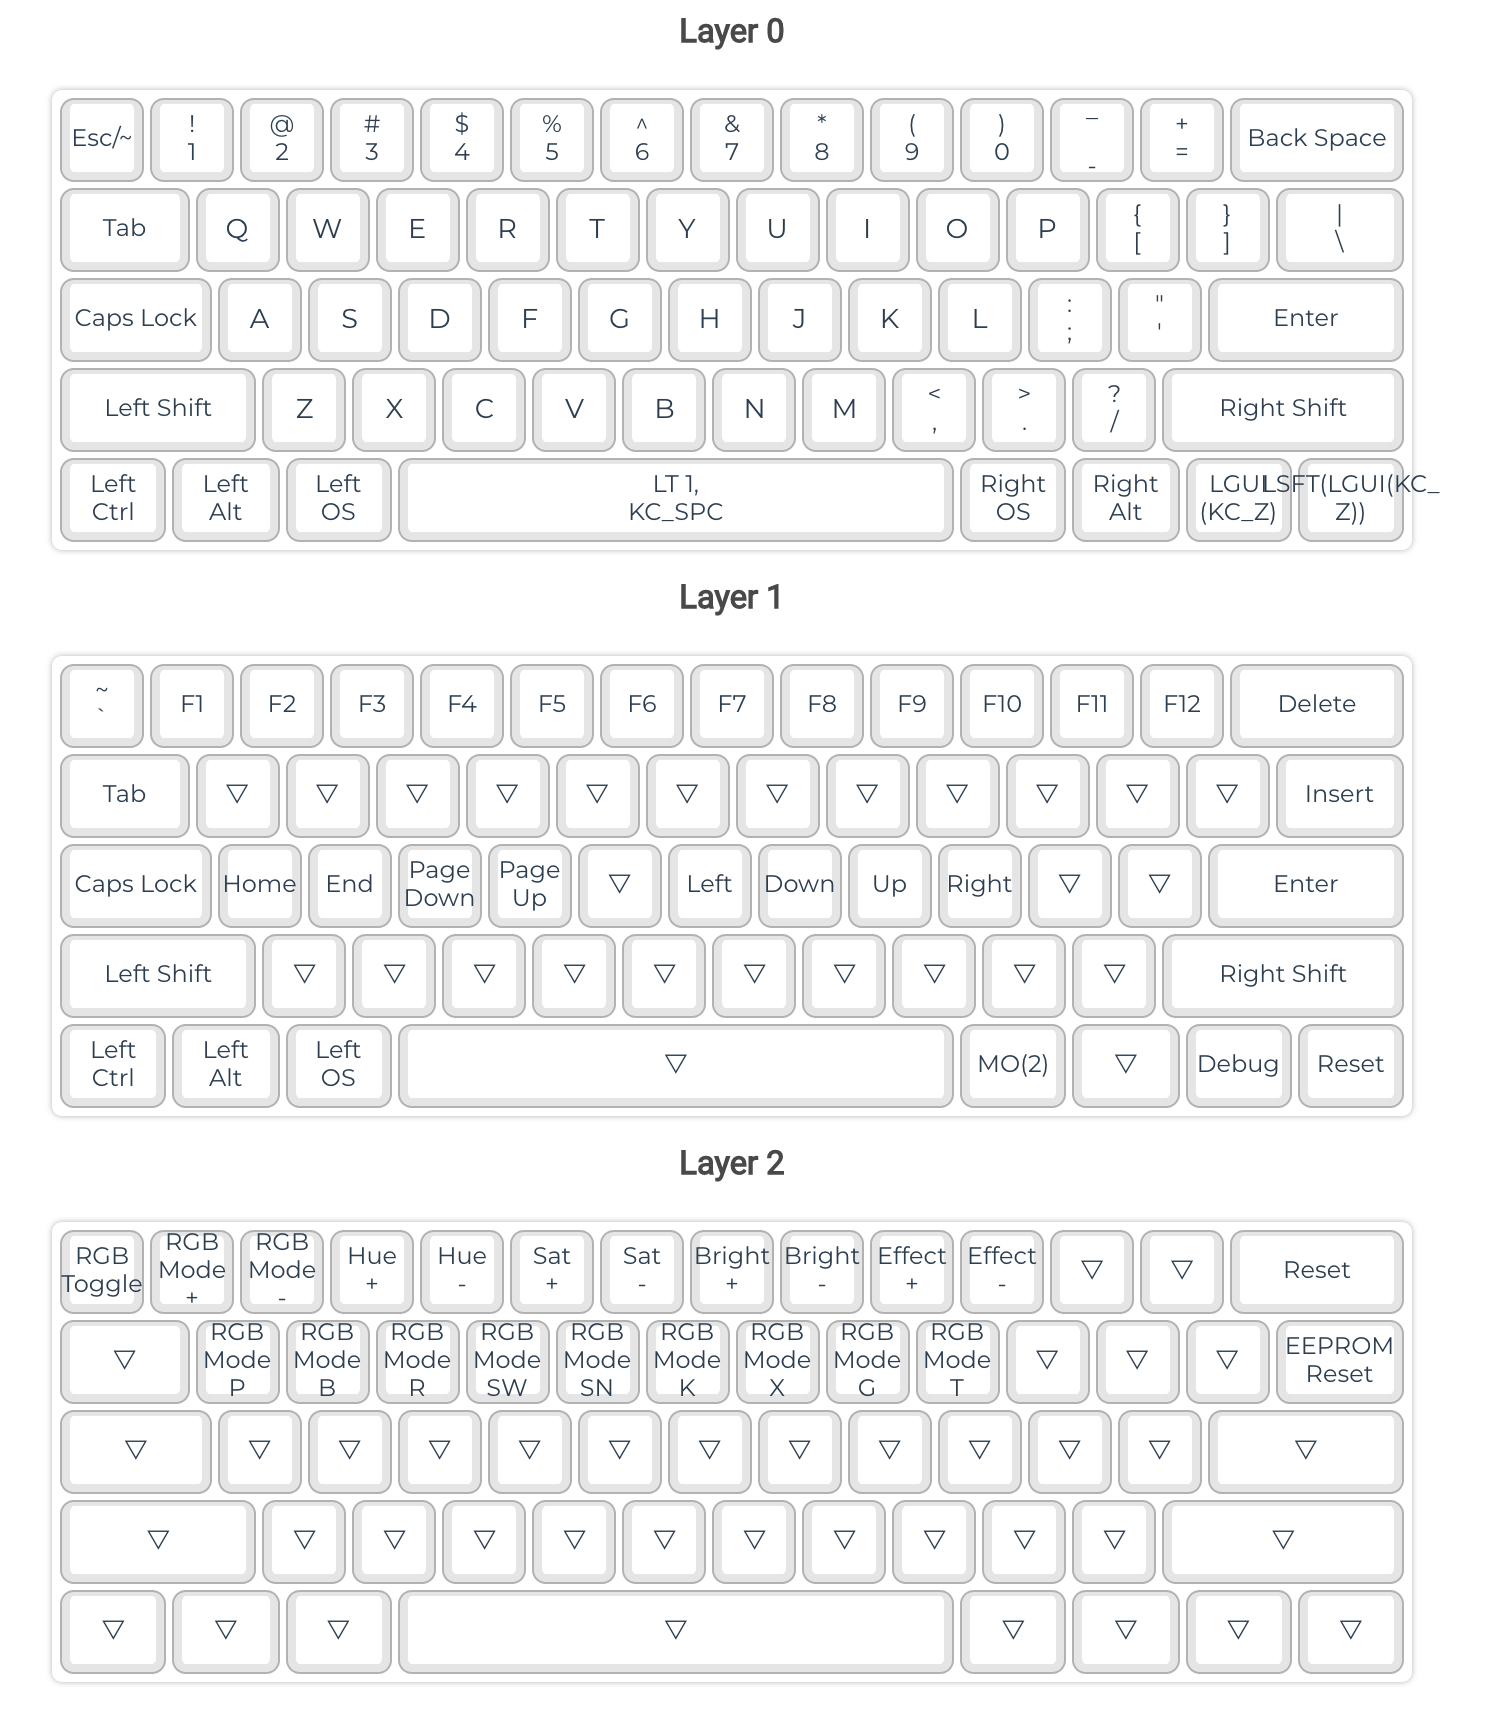
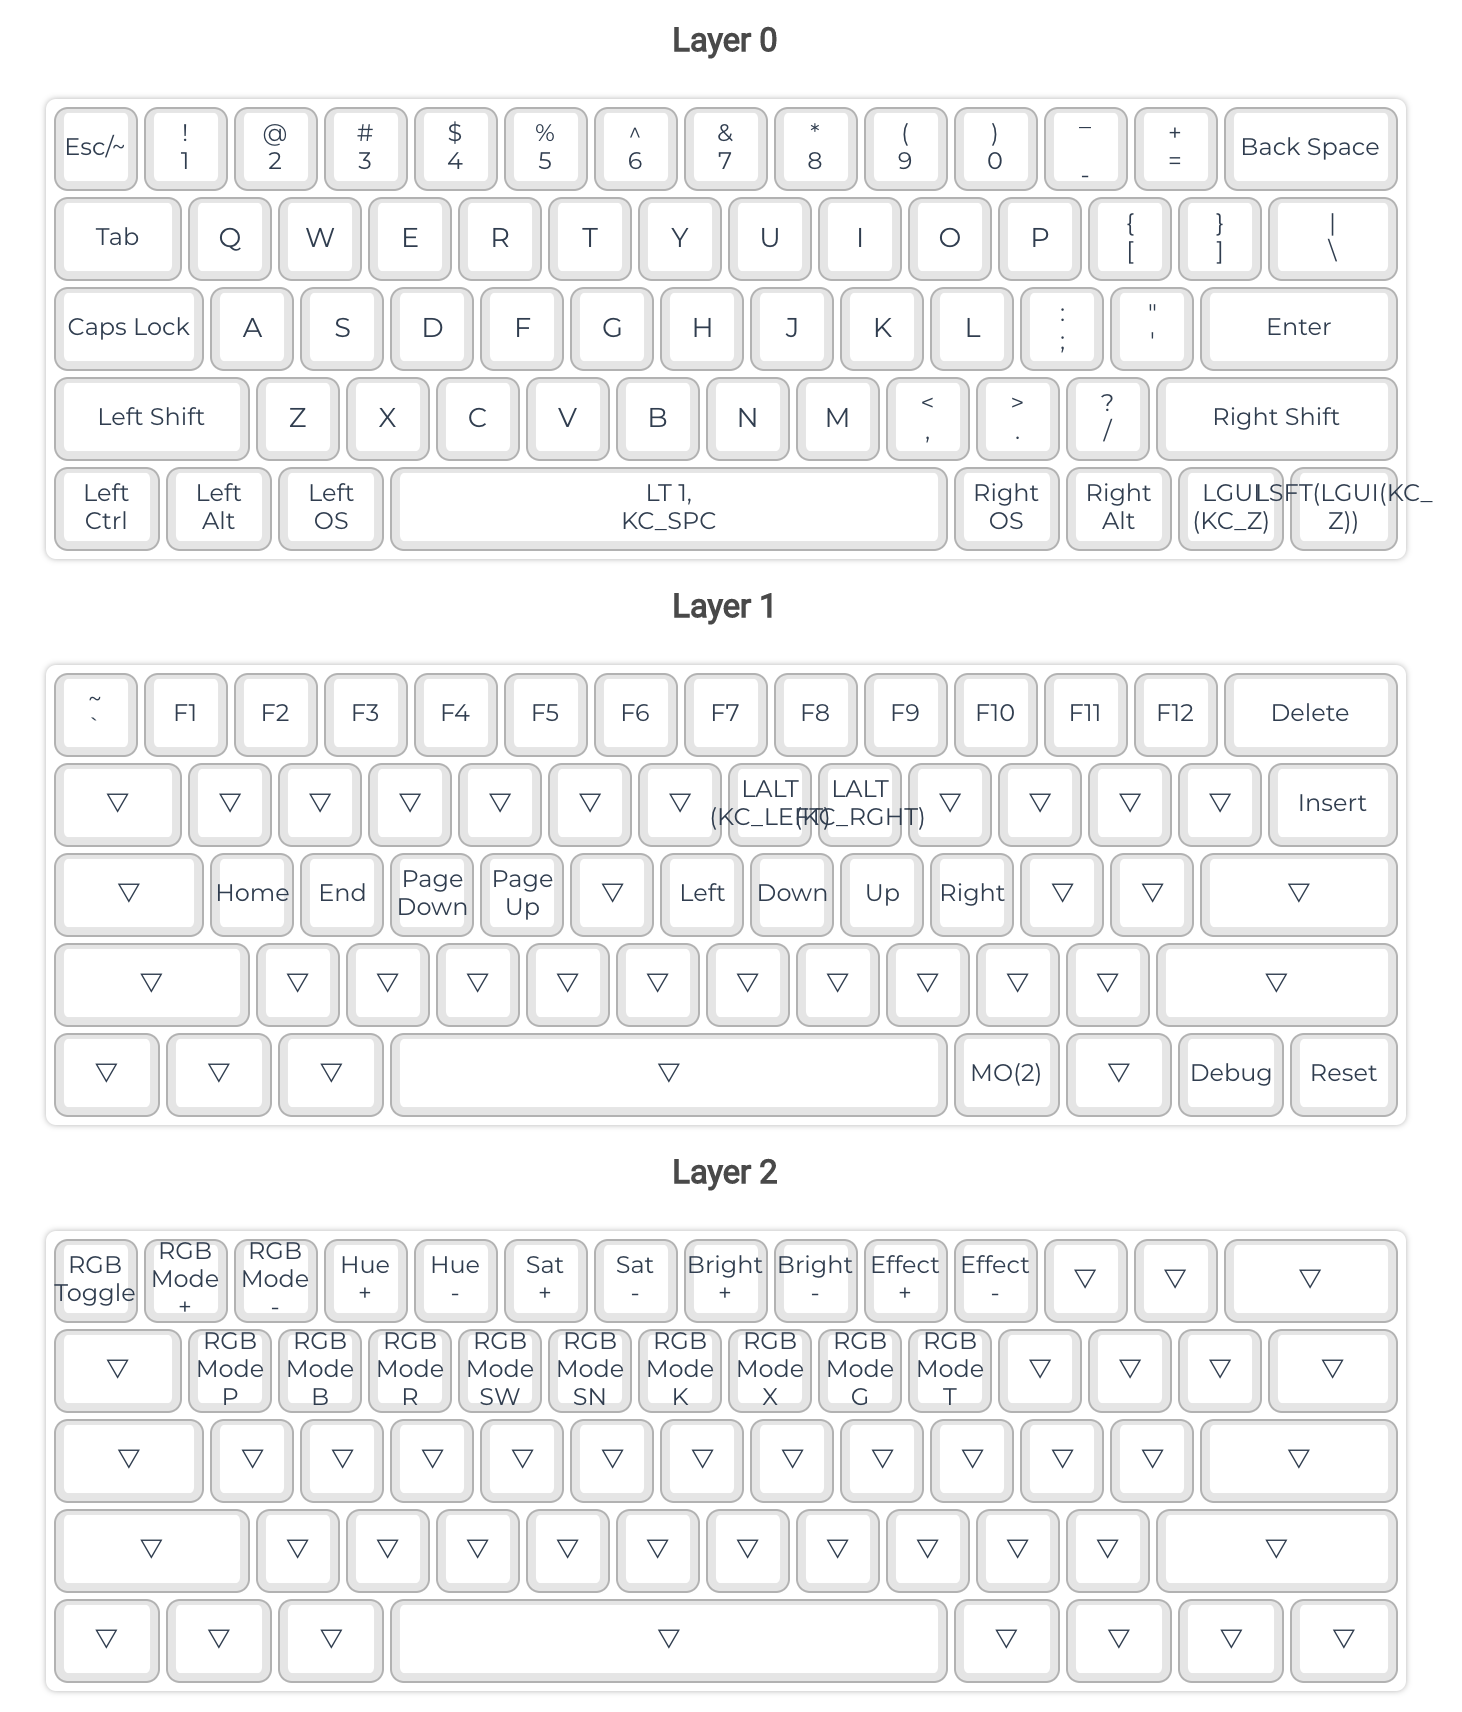
update

diff --git a/changelog.md b/changelog.md
@@ -7,3 +7,6 @@
 ## 20210511
 * 修改右下角两个键
 * 层重复的键改由`KC_TRNS`替代
+
+## 20210517
+* 增加左移和右移一个单词的快捷键
